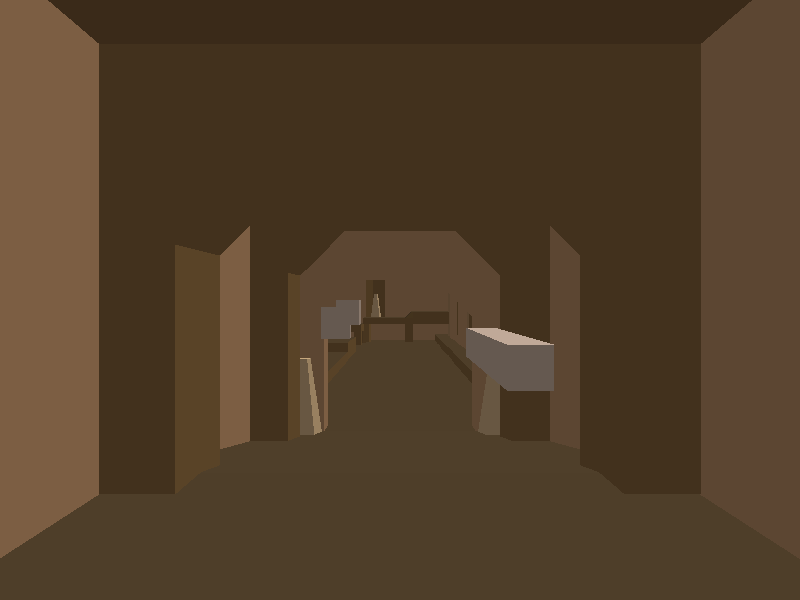
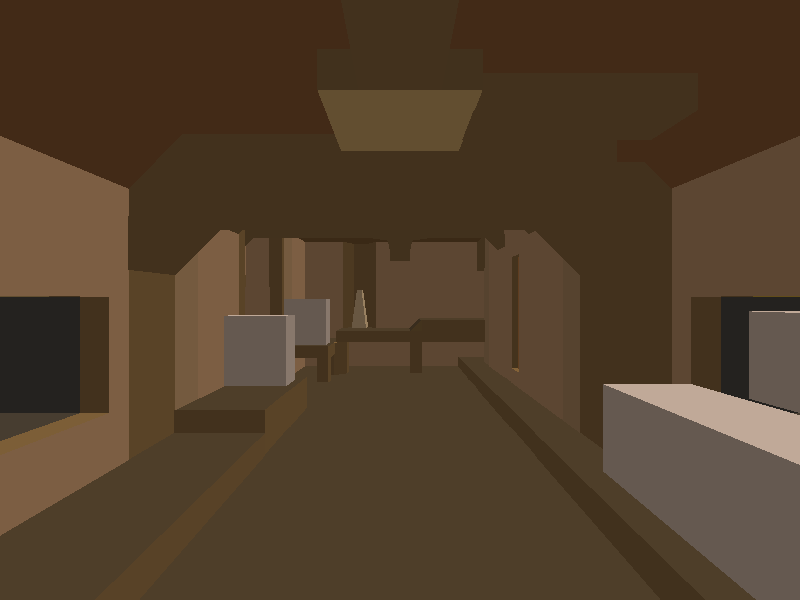
Default to flat shading; fix brush-model z-ordering
- main.py: start in flat-shaded mode (F still toggles to wireframe)
- render.py: brush submodels (doors/lifts/buttons/platforms) were painted
  last, on top of everything, so they showed through walls and in front of
  geometry that was actually closer. Now they're woven into the BSP
  back-to-front walk at their true depth: each pending model is partitioned
  by every split plane (front/back/straddle) as we descend, and drawn between
  the far and near subtrees where it belongs. Correct painter's order vs the
  world; cost is negligible (render_shaded ~3ms).

diff --git a/render.py b/render.py
@@ -402,37 +402,63 @@ class Renderer:
                 flat.append(hh - cy * focal / cz)
             polys.append((flat, face_color[fi]))
 
-        # walk the world BSP far-child-first -> leaves in back-to-front order
-        def walk(num):
+        def emit_model(md):
+            ff = md["firstface"]
+            for fi in range(ff, ff + md["numfaces"]):
+                emit_face_poly(fi)
+
+        def box_side(mins, maxs, nx, ny, nz, dist):
+            # +1 box fully in front of plane, -1 fully behind, 0 straddles
+            pmin = (nx * (mins[0] if nx >= 0 else maxs[0]) +
+                    ny * (mins[1] if ny >= 0 else maxs[1]) +
+                    nz * (mins[2] if nz >= 0 else maxs[2])) - dist
+            if pmin >= 0:
+                return 1
+            pmax = (nx * (maxs[0] if nx >= 0 else mins[0]) +
+                    ny * (maxs[1] if ny >= 0 else mins[1]) +
+                    nz * (maxs[2] if nz >= 0 else mins[2])) - dist
+            return -1 if pmax <= 0 else 0
+
+        # collect the visible brush submodels (doors, lifts, buttons, platforms)
+        pending = []
+        if self.brushmodels:
+            for md in bsp.models[1:]:
+                if self.box_in_pvs(md["mins"], md["maxs"], vis):
+                    pending.append(md)
+
+        # walk the world BSP far-child-first -> back-to-front, weaving each brush
+        # model in at its own depth (partitioned by every split plane it crosses)
+        def walk(num, models):
             if num < 0:
                 li = -num - 1
-                if li == 0:
-                    return
-                bit = li - 1
-                if not (vis[bit >> 3] & (1 << (bit & 7))):
-                    return
-                _, _, fm, nm = leafs[li]
-                for m in range(fm, fm + nm):
-                    emit_face_poly(marks[m])
+                if li > 0:
+                    bit = li - 1
+                    if vis[bit >> 3] & (1 << (bit & 7)):
+                        _, _, fm, nm = leafs[li]
+                        for m in range(fm, fm + nm):
+                            emit_face_poly(marks[m])
+                for md in models:
+                    emit_model(md)
                 return
             planenum, children, _, _ = nodes[num]
             (nx, ny, nz), dist, _ = planes[planenum]
-            if ox * nx + oy * ny + oz * nz - dist >= 0:
-                walk(children[1])           # far side first
-                walk(children[0])
+            if models:
+                front, back, on = [], [], []
+                for md in models:
+                    s = box_side(md["mins"], md["maxs"], nx, ny, nz, dist)
+                    (front if s > 0 else back if s < 0 else on).append(md)
             else:
-                walk(children[0])
-                walk(children[1])
+                front = back = on = ()
+            if ox * nx + oy * ny + oz * nz - dist >= 0:   # camera in front
+                walk(children[1], back)                   # far = back side
+                for md in on:
+                    emit_model(md)
+                walk(children[0], front)                  # near = front side
+            else:
+                walk(children[0], front)                  # far = front side
+                for md in on:
+                    emit_model(md)
+                walk(children[1], back)
 
-        walk(self.headnode)
-
-        # brush submodels last (drawn on top; approximate vs world depth)
-        if self.brushmodels:
-            for md in bsp.models[1:]:
-                if not self.box_in_pvs(md["mins"], md["maxs"], vis):
-                    continue
-                ff = md["firstface"]
-                for fi in range(ff, ff + md["numfaces"]):
-                    emit_face_poly(fi)
-
+        walk(self.headnode, pending)
         return polys, leaf

diff --git a/main.py b/main.py
@@ -66,7 +66,7 @@ class App:
                      for _ in range(PREGROW)]
         self.prev_n = 0
         # filled-polygon pool for flat-shading mode (drawn back-to-front)
-        self.flat = False
+        self.flat = True
         self.polypool = [self.canvas.create_polygon(
             -10, -10, -10, -10, -10, -10, outline="", fill="#000000")
             for _ in range(PREGROW_POLY)]